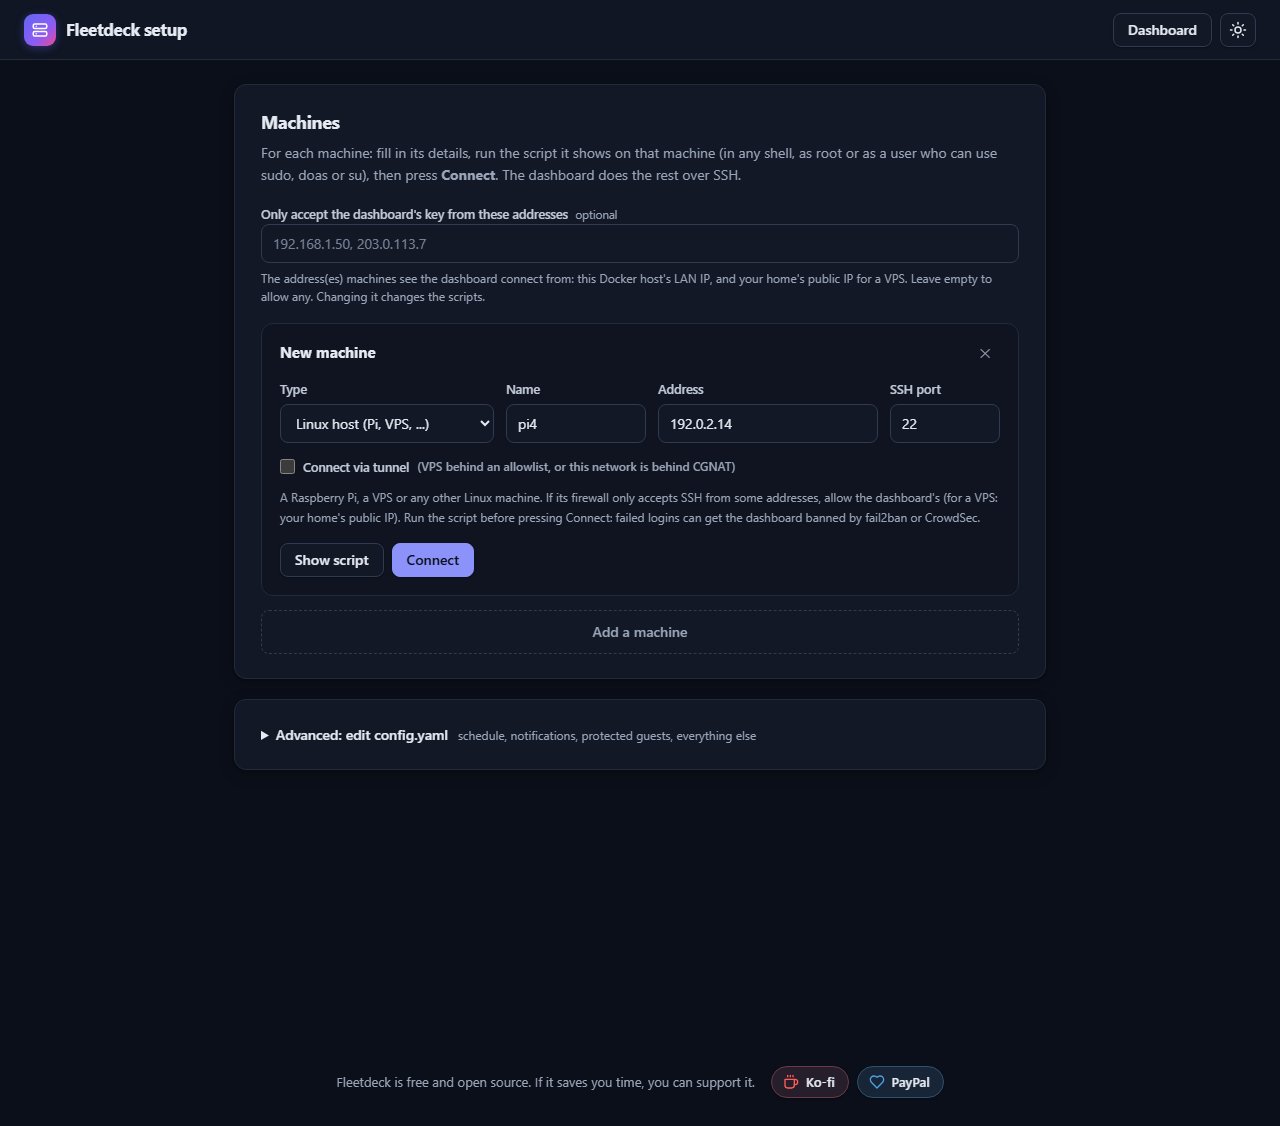
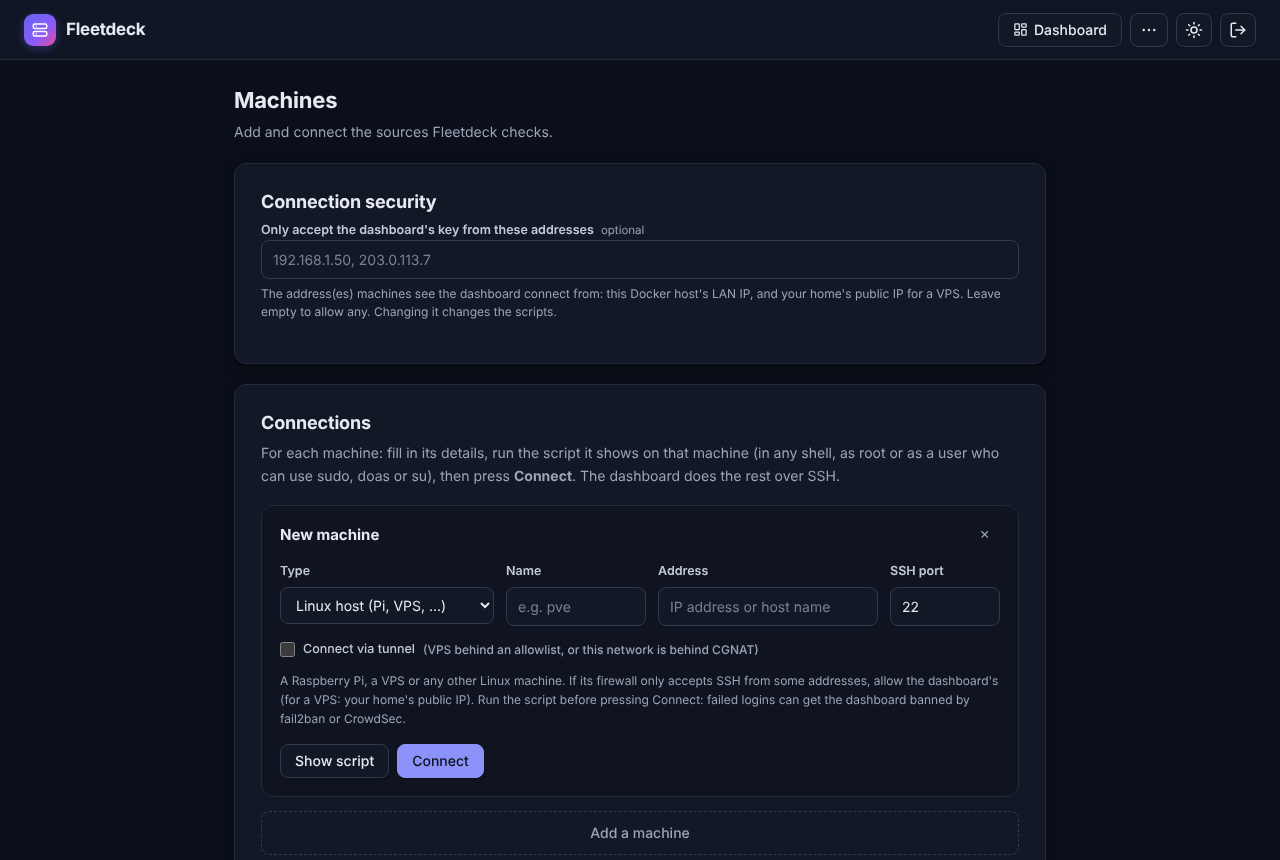
Refresh README screenshots from current main
Retake the demo-mode screenshots in light and dark from main at 369ec13:
dashboard, activity, setup and add machines. Add a phone view of the
dashboard to the detailed guide.

Claude-Session: https://claude.ai/code/session_01MuMzyyPrPPXPhe2YhyaZnT

diff --git a/docs/DETAILED-README.md b/docs/DETAILED-README.md
@@ -161,6 +161,11 @@ Raspberry Pi OS), **dnf/yum**, **apk** (Alpine) and **pacman** (Arch).
 ![The dashboard (demo data)](screenshots/dashboard-light.png#gh-light-mode-only)
 ![The dashboard (demo data)](screenshots/dashboard-dark.png#gh-dark-mode-only)
 
+On a phone, each machine becomes a card with its own Update and Docker buttons:
+
+![The dashboard on a phone (demo data)](screenshots/dashboard-phone-light.png#gh-light-mode-only)
+![The dashboard on a phone (demo data)](screenshots/dashboard-phone-dark.png#gh-dark-mode-only)
+
 The first-run setup page creates the admin login:
 
 ![The setup page](screenshots/setup-light.png#gh-light-mode-only)
